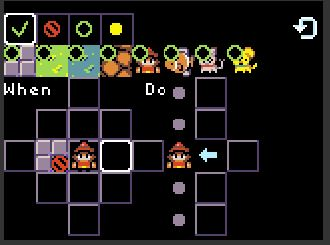
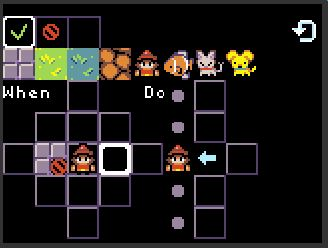
update predicate flags

diff --git a/manual.md b/manual.md
@@ -110,17 +110,14 @@ Moving the cursor to the space to the left of the player sprite and pressing A b
 
 ![predicate flags](pics/dpadLeftAttrs.JPG)
 
-The green circle denotes that any of these tiles/sprites may occupy the space; the red circle with a slash denotes the wall tile is excluded. In other words, the predicate for the space to the left of the player matches if that space is not painted with the wall tile.
-
-If you move the cursor over the four flags you will see their meaning:
-* *green check mark*: the space must include this tile/sprite;
+ The red circle with a slash denotes the wall tile is excluded. In other words, the predicate for the space to the left of the player matches if that space is not painted with the wall tile. If you move the cursor over the flags you will see their meaning:
+* *green check mark*: one of the tile/sprites marked with a green check mark must be in the space;
 * *red-slash circle*: the space must not include this tile/sprite (it is excluded from the space);
-* *green circle*: it is OK for the tile/sprite to be in space, but not required (on other words, we don't care whether or not the tile/sprite is in the space);
-* *yellow dot*: one of the tile/sprites marked with a yellow dot must be in the space.
+* *clear*: it doesn't matter (don't care) if the tile/sprite is in the space or not.
 
 ![attributes](pics/attributes.png)
 
-Try changing the flags on the tiles/sprites and see how it affects game play (remember that this rule only applies for the left dpad button). The reset button on the upper right of the attribute men resets all the flags to OK. Note that any space in the *When* section that is empty has all its predicate flags set to OK, as shown for the space to the right of the player sprite:
+Try changing the flags on the tiles/sprites and see how it affects game play (remember that this rule only applies for the left dpad button). The reset button on the upper right of the attribute menu clears all the flags. Note that any space in the *When* section that is empty has no flag set, as shown for the space to the right of the player sprite:
 
 ![attributes](pics/allOK.JPG)
 
